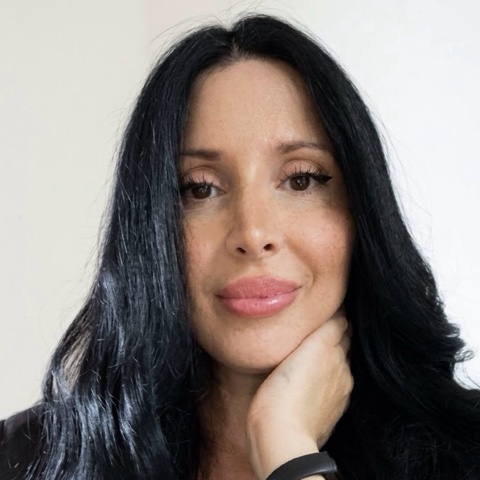
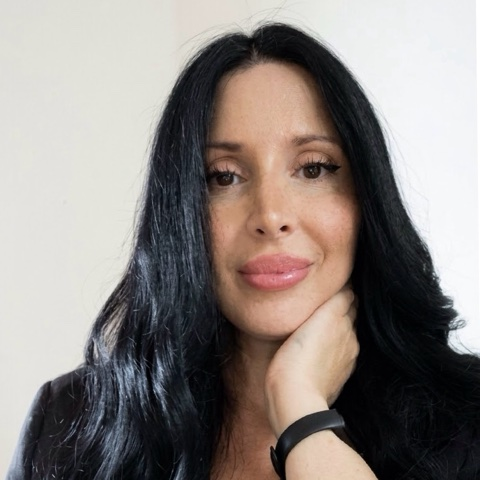
Wider About portrait crop, bullet points on one line, North London no longer repeated in About

diff --git a/index.html b/index.html
@@ -104,7 +104,7 @@
       <div class="about-box">
         <img class="about-box__photo" src="assets/about/federica-480.jpg" width="480" height="480" alt="Federica Aiello, with long dark hair, resting her chin on her hand" decoding="async">
         <h2 id="about-heading">Hi, I’m Federica Aiello</h2>
-        <p>I’m a female tattoo artist in North London, and I’ve been tattooing since 2019. I specialise in fine line: delicate details and clean lines, in tattoos that feel personal to the person wearing them.</p>
+        <p>I’m a female tattoo artist, and I’ve been tattooing since 2019. I specialise in fine line: delicate details and clean lines, in tattoos that feel personal to the person wearing them.</p>
         <p>From a tiny tattoo that holds a memory to a design we create from scratch, every one is made with patience and a light touch.</p>
         <p class="about__closing">Small tattoos with personal stories, made to be yours.</p>
       </div>
@@ -203,12 +203,12 @@
     <section class="section" aria-labelledby="book-heading">
       <h2 id="book-heading">Ready for your fine line tattoo?</h2>
       <p>I work by appointment in North London, on Wednesdays, Fridays and Saturdays. To enquire, send me a DM on Instagram with:</p>
-      <ol class="booking__list">
+      <ul class="booking__list">
         <li>Your idea</li>
         <li>The placement</li>
         <li>The approximate size</li>
         <li>A reference picture, if you have one</li>
-      </ol>
+      </ul>
       <p>I’ll get back to you with availability and a quote.</p>
       <p class="booking__note">You need to be 18 or over and bring photo ID to your appointment.</p>
       <div class="actions">

diff --git a/styles.css b/styles.css
@@ -293,29 +293,30 @@ a { color: inherit; }
   object-fit: cover;
 }
 
-/* "Ready for your tattoo?": what to send, as plain centred lines like the rest of the page */
+/* "Ready for your tattoo?": what to send, as bullet points on one line (they wrap on narrow screens) */
 .booking__list {
+  display: flex;
+  flex-wrap: wrap;
+  justify-content: center;
+  gap: 0.375rem 1.5rem;
   margin: 1.25rem 0;
   padding: 0;
   list-style: none;
-  counter-reset: step;
 }
 .booking__list li {
   display: flex;
-  align-items: baseline;
-  justify-content: center;
-  gap: 0.75rem;
-  padding: 0.25rem 0;
+  align-items: center;
+  gap: 0.625rem;
   font-size: 1.125rem;
-  counter-increment: step;
 }
 .booking__list li::before {
-  content: counter(step);
-  color: var(--rose);
-  font-family: var(--font-heading);
-  font-size: 1.5rem;
-  font-weight: 700;
-  line-height: 1;
+  content: "";
+  flex: none;
+  width: 0.5rem;
+  height: 0.5rem;
+  border-radius: 50%;
+  background: var(--pink);
+  box-shadow: 0 0 0 2px var(--pink-soft);
 }
 .booking__note {
   margin-top: 1.25rem;
@@ -548,6 +549,10 @@ body:has(.consent:not([hidden])) .footer__inner { padding-bottom: 11rem; }
 }
 
 /* Wider screens: more photos per row, and more room for the one-paragraph privacy notice */
+@media (min-width: 840px) {
+  /* Let the four bullet points run a little wider than the text above, so they sit on one line */
+  .booking__list { margin-inline: -7.5rem; }
+}
 @media (min-width: 900px) {
   .gallery { --cols: 3; }
 }

diff --git a/SPEC.md b/SPEC.md
@@ -25,7 +25,7 @@ Decisions made with you: the palette follows Federica's Instagram (pearl grey an
 - h1: Fine line tattoo artist in North London
 
 **About** (h2: Hi, I'm Federica Aiello)
-> I'm a female tattoo artist in North London, and I've been tattooing since 2019. I specialise in fine line: delicate details and clean lines, in tattoos that feel personal to the person wearing them.
+> I'm a female tattoo artist, and I've been tattooing since 2019. I specialise in fine line: delicate details and clean lines, in tattoos that feel personal to the person wearing them.
 >
 > From a tiny tattoo that holds a memory to a design we create from scratch, every one is made with patience and a light touch.
 >
@@ -35,7 +35,7 @@ Decisions made with you: the palette follows Federica's Instagram (pearl grey an
 
 **My recent work** (h2): 12 photos in frames, in a fixed order (cowboy boot, stars, pumpkin with bow, Luna, boots stamp, butterflies, clock tower, lemon stamp, two stars, four, numbers, forearm script). Clicking a photo opens a larger copy in a viewer (previous and next buttons, arrow keys, Escape or the close button to leave).
 
-**Ready for your fine line tattoo?** `<section>`: what to send (plain numbered lines), two buttons, then the Instagram, TikTok and email icons.
+**Ready for your fine line tattoo?** `<section>`: what to send (four bullet points), two buttons, then the Instagram, TikTok and email icons.
 8. **Footer** `<footer>` on light pink: copyright, "Cookie choices" button and the privacy notice.
 
 Heading order: h1, then h2 "Hi, I'm Federica Aiello", "My recent work", ("FAQ" when added), "Ready for your fine line tattoo?" and "Privacy". The footer uses a labelled `<nav>` and no extra headings except one h2 "Privacy".
@@ -61,7 +61,7 @@ Heading order: h1, then h2 "Hi, I'm Federica Aiello", "My recent work", ("FAQ" w
 **Ready for your fine line tattoo?** (h2, the closing section)
 > I work by appointment in North London, on Wednesdays, Fridays and Saturdays. To enquire, send me a DM on Instagram with:
 
-Plain centred numbered lines (no box, like "My style"): 1 Your idea, 2 The placement, 3 The approximate size, 4 A reference picture, if you have one.
+Four bullet points on one line (they wrap on narrow phones): Your idea, The placement, The approximate size, A reference picture, if you have one. No box.
 
 > I'll get back to you with availability and a quote.
 
@@ -130,7 +130,7 @@ Details:
 - **Logo:** Federica's logo file in a round crop with a soft static pink halo (no flicker).
 - **Fonts:** headings use **Didot** (Federica's choice). Didot is a licensed font that is built into Macs, iPhones and iPads, so it shows there with no download. Everyone else gets **Bodoni Moda 400 and 700**, a free lookalike from Google Fonts (downloaded only when Didot is missing). Body text is Jost 400 and 500. One Google Fonts request with `display=swap`, `preconnect`, loaded without blocking the first paint. Showing the real Didot on every device would need a purchased web font licence.
 - **Footer:** full-width strip in light pink (`--blush`, `#FBEAF2`). Social links and the copyright on one row, then the privacy notice across the whole page width in small type. On a laptop or desktop screen that is about two lines; on a phone it necessarily wraps more.
-- **About:** at the top under the H1, in a light pink box (`--blush`, thin `--pink-soft` border, rounded corners). Federica's round photo sits centred on the top edge of the box, in a logo-pink ring with a thin light pink outer ring. The photo is not a link and never opens in the photo viewer. It is a 480px square crop of her portrait with all hidden data removed (`assets/about/federica-480.jpg`); the original stays in `originals/logo/`.
+- **About:** at the top under the H1, in a light pink box (`--blush`, thin `--pink-soft` border, rounded corners). Federica's round photo sits centred on the top edge of the box, in a logo-pink ring with a thin light pink outer ring. The photo is not a link and never opens in the photo viewer. It is a 480px square crop of her portrait (the widest square the photo allows, so her shoulders and hand show too) with all hidden data removed (`assets/about/federica-480.jpg`); the original stays in `originals/logo/`.
 - Mobile first at 375px, buttons at least 48px tall, visible 3px rose focus rings, `prefers-reduced-motion` respected.
 
 ## 6. SEO
